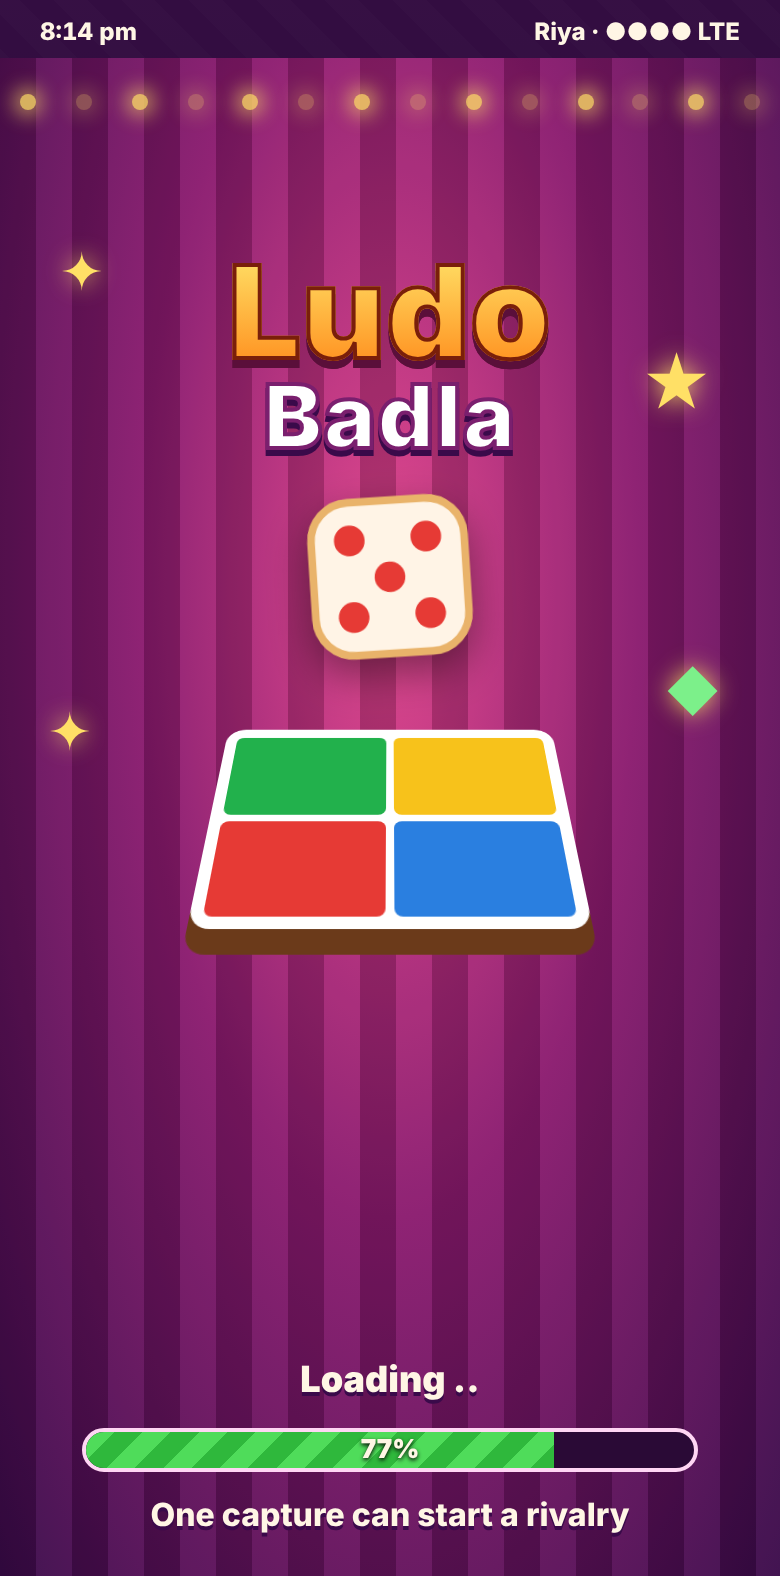
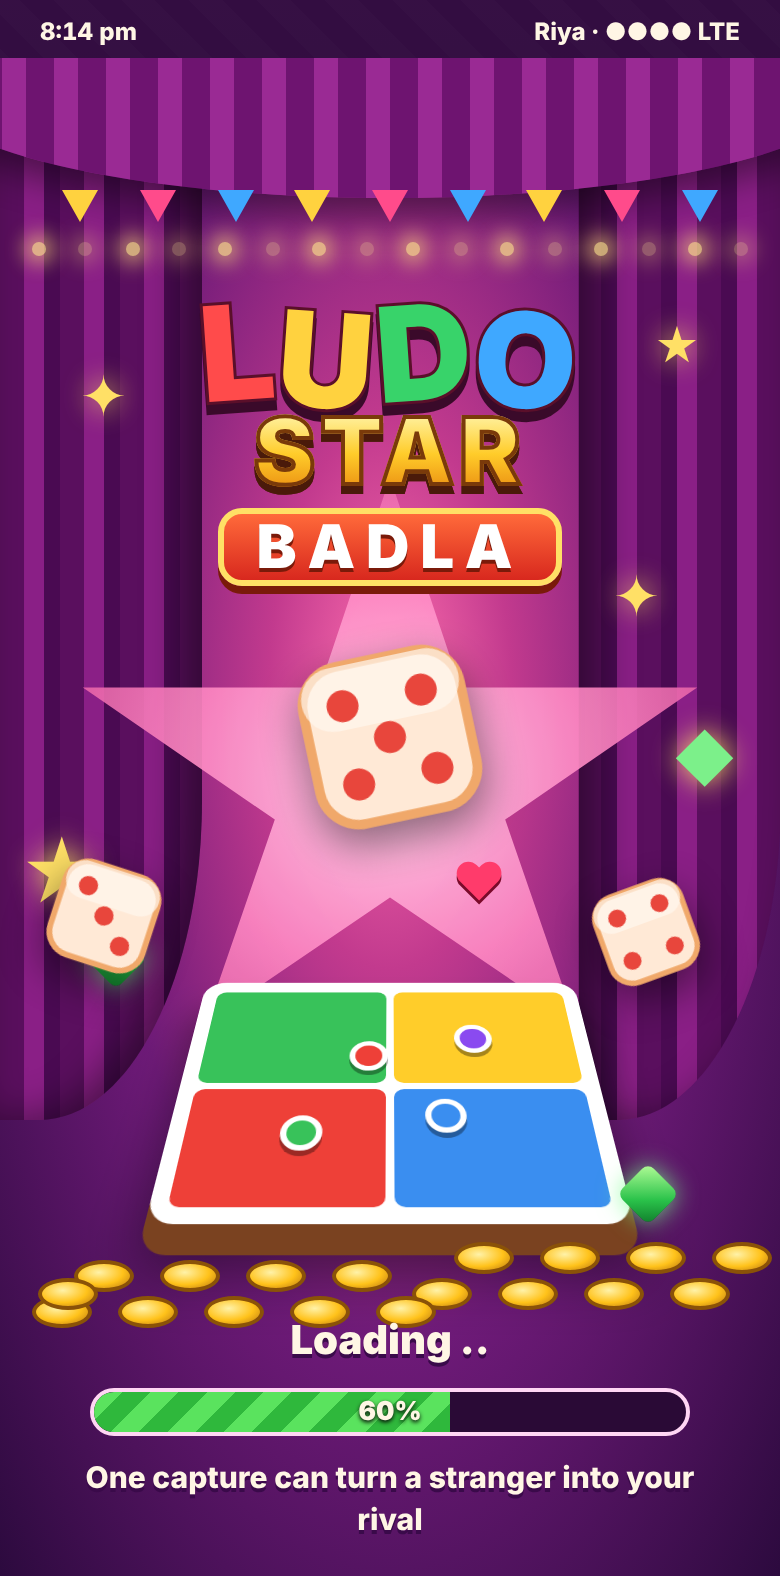
Loading screen modelled on the game's own, titled Ludo Star · Badla
Stage curtain with drapes and bunting, lights, a glowing star, floating
dice, a board with tokens, gold coins and gems, and the green loading bar.
Artwork is redrawn from scratch; no logo or mascot assets are used.

Claude-Session: https://claude.ai/code/session_01TFLZc5oSprUor55U9u9e7r

diff --git a/src/styles.css b/src/styles.css
@@ -593,32 +593,57 @@ body {
 .b-safe, .b-star { fill: #8a8a8a; }
 .board { filter: drop-shadow(0 6px 0 #3d1e0a); }
 
-/* Original loading screen */
-.splash { position: relative; min-height: 100%; height: 100%; overflow: hidden; display: flex; flex-direction: column; align-items: center; padding: 28px 16px 20px; gap: 10px;
-  background:
-    repeating-linear-gradient(90deg, rgba(0, 0, 0, 0.18) 0 18px, rgba(255, 255, 255, 0.04) 18px 36px),
-    radial-gradient(ellipse at 50% 35%, #e0418a 0%, #8a1a6e 45%, #3a0a4a 100%); }
-.splash-lights { position: absolute; top: 18px; left: 0; right: 0; display: flex; justify-content: space-around; }
-.splash-lights span { width: 8px; height: 8px; border-radius: 50%; background: #ffe066; box-shadow: 0 0 10px 3px rgba(255, 224, 102, 0.8); animation: twinkle 1.2s ease-in-out infinite alternate; }
-.splash-lights span:nth-child(odd) { animation-delay: 0.6s; }
-@keyframes twinkle { to { opacity: 0.3; } }
-.splash-sparkles span { position: absolute; color: #ffe066; font-size: 26px; text-shadow: 0 0 12px rgba(255, 224, 102, 0.9); }
-.splash-sparkles span:nth-child(1) { top: 90px; left: 30px; }
-.splash-sparkles span:nth-child(2) { top: 140px; right: 34px; font-size: 34px; }
-.splash-sparkles span:nth-child(3) { top: 320px; left: 24px; }
-.splash-sparkles span:nth-child(4) { top: 300px; right: 30px; color: #7cf08a; }
-.splash-title { margin-top: 60px; display: flex; flex-direction: column; align-items: center; line-height: 0.95; font-weight: 900; letter-spacing: 0.02em; }
-.st-ludo { font-size: 64px; background: linear-gradient(180deg, #ffe066, #ff8a1a); -webkit-background-clip: text; background-clip: text; color: transparent; -webkit-text-stroke: 2px #7a1f0a; filter: drop-shadow(0 4px 0 #5a0f3a); }
-.st-badla { font-size: 44px; color: #fff; -webkit-text-stroke: 2px #7a1f6e; filter: drop-shadow(0 3px 0 #3a0a4a); }
-.splash-die { width: 92px; height: 92px; margin-top: 8px; animation: bob 1.4s ease-in-out infinite; filter: drop-shadow(0 8px 10px rgba(0, 0, 0, 0.4)); }
-@keyframes bob { 50% { transform: translateY(-10px) rotate(-8deg); } }
-.splash-board { width: 180px; height: 120px; display: grid; grid-template-columns: 1fr 1fr; grid-template-rows: 1fr 1fr; gap: 4px; padding: 6px; background: #fff; border-radius: 10px; transform: perspective(300px) rotateX(35deg); box-shadow: 0 12px 0 #6b3a1a; }
-.splash-board .q { border-radius: 4px; }
-.q.g { background: var(--seat-teal); } .q.y { background: var(--seat-amber); } .q.r { background: var(--seat-red); } .q.b { background: var(--seat-blue); }
-.splash-bottom { margin-top: auto; width: 100%; display: flex; flex-direction: column; align-items: center; gap: 10px; }
-.splash-loading { font-weight: 900; font-size: 18px; text-shadow: 0 2px 0 #3a0a4a; }
-.splash-bar { position: relative; width: 86%; height: 22px; border-radius: 12px; background: #2a0a36; border: 2px solid #ffd6f4; overflow: hidden; }
-.splash-bar span { display: block; height: 100%; background: repeating-linear-gradient(135deg, #4fdc5a 0 10px, #2fb83c 10px 20px); }
+/* Loading screen */
+.splash { position: relative; min-height: 100%; height: 100%; overflow: hidden; display: flex; flex-direction: column; align-items: center; padding: 0 16px 18px;
+  background: radial-gradient(ellipse at 50% 42%, #ff6fae 0%, #c23a8e 22%, #6e1a78 52%, #2c0a3e 100%); }
+.sp-drape { position: absolute; top: 0; bottom: 30%; width: 26%; z-index: 1;
+  background: repeating-linear-gradient(90deg, #5a0f5e 0 12px, #8a1f86 12px 22px, #4a0a52 22px 30px); box-shadow: inset -10px 0 20px rgba(0, 0, 0, 0.45); }
+.sp-drape-l { left: 0; border-bottom-right-radius: 80% 30%; }
+.sp-drape-r { right: 0; border-bottom-left-radius: 80% 30%; transform: scaleX(-1); }
+.sp-swag { position: absolute; top: -40px; left: -10%; right: -10%; height: 110px; z-index: 2; border-radius: 0 0 50% 50%;
+  background: repeating-linear-gradient(90deg, #6e1470 0 14px, #9a2a94 14px 26px); box-shadow: 0 8px 18px rgba(0, 0, 0, 0.45); }
+.sp-bunting { position: absolute; top: 66px; left: 8%; right: 8%; z-index: 3; display: flex; justify-content: space-between; }
+.sp-bunting span { width: 0; height: 0; border-left: 9px solid transparent; border-right: 9px solid transparent; border-top: 16px solid #ffd23f; }
+.sp-bunting span:nth-child(3n+2) { border-top-color: #ff4b8b; }
+.sp-bunting span:nth-child(3n) { border-top-color: #3fa8ff; }
+.splash-lights { position: absolute; top: 92px; left: 4%; right: 4%; z-index: 3; display: flex; justify-content: space-between; }
+.splash-lights span { width: 7px; height: 7px; border-radius: 50%; background: #ffe58a; box-shadow: 0 0 10px 4px rgba(255, 220, 120, 0.85); animation: twinkle 1.1s ease-in-out infinite alternate; }
+.splash-lights span:nth-child(odd) { animation-delay: 0.55s; }
+@keyframes twinkle { to { opacity: 0.35; } }
+.sp-starpanel { position: absolute; top: 210px; left: 50%; width: 320px; height: 300px; transform: translateX(-50%); z-index: 1;
+  clip-path: polygon(50% 0%, 61% 35%, 98% 35%, 68% 57%, 79% 91%, 50% 70%, 21% 91%, 32% 57%, 2% 35%, 39% 35%);
+  background: radial-gradient(circle, #ffd6ec 0%, #ff8ac4 45%, #d0408e 100%); filter: drop-shadow(0 0 18px rgba(255, 200, 120, 0.8)); opacity: 0.9; }
+.splash-sparkles span { position: absolute; z-index: 4; color: #ffe066; font-size: 28px; text-shadow: 0 0 14px rgba(255, 224, 102, 0.95); }
+.splash-sparkles span:nth-child(1) { top: 380px; left: 10px; font-size: 40px; }
+.splash-sparkles span:nth-child(2) { top: 150px; left: 40px; }
+.splash-sparkles span:nth-child(3) { top: 130px; right: 40px; font-size: 22px; }
+.splash-sparkles span:nth-child(4) { top: 330px; right: 22px; color: #7cf08a; font-size: 30px; }
+.splash-sparkles span:nth-child(5) { top: 250px; right: 60px; }
+.splash-title { position: relative; z-index: 5; margin-top: 118px; display: flex; flex-direction: column; align-items: center; line-height: 0.9; font-weight: 900; }
+.sp-ludo { font-size: 66px; letter-spacing: 0.02em; display: flex; -webkit-text-stroke: 3px #5a0f2a; paint-order: stroke fill; filter: drop-shadow(0 5px 0 #3a0a2a); }
+.sp-ludo span { display: inline-block; }
+.sp-ludo span:nth-child(odd) { transform: rotate(-4deg); }
+.sp-ludo span:nth-child(even) { transform: translateY(4px) rotate(4deg); }
+.sp-star { font-size: 46px; letter-spacing: 0.06em; background: linear-gradient(180deg, #fff4a8, #ffcc2a 50%, #e8860e); -webkit-background-clip: text; background-clip: text; color: transparent; -webkit-text-stroke: 2px #7a3a0a; filter: drop-shadow(0 4px 0 #4a1a0a); }
+.sp-badla { margin-top: 6px; font-size: 30px; letter-spacing: 0.18em; color: #fff; padding: 4px 16px 2px; border-radius: 12px; background: linear-gradient(180deg, #ff6a3a, #d8281e); border: 3px solid #ffe066; box-shadow: 0 4px 0 #7a1a0a; text-shadow: 0 2px 0 #7a1a0a; }
+.sp-die { position: absolute; z-index: 5; filter: drop-shadow(0 8px 10px rgba(0, 0, 0, 0.45)); }
+.sp-die:first-of-type { margin-left: -48px; animation: bob 1.6s ease-in-out infinite; }
+@keyframes bob { 50% { translate: 0 -10px; } }
+.sp-heart { position: absolute; z-index: 5; top: 395px; left: 58%; color: #ff3b6b; font-size: 26px; filter: drop-shadow(0 2px 0 #7a0a2a); }
+.sp-table { position: absolute; z-index: 4; left: 0; right: 0; bottom: 160px; height: 170px; display: grid; place-items: center; }
+.splash-board { position: relative; width: 210px; height: 150px; display: grid; grid-template-columns: 1fr 1fr; grid-template-rows: 1fr 1fr; gap: 4px; padding: 8px; background: #fff; border-radius: 12px; transform: perspective(320px) rotateX(38deg); box-shadow: 0 14px 0 #7a4220, 0 22px 24px rgba(0, 0, 0, 0.45); }
+.splash-board .q { border-radius: 5px; }
+.q.g { background: #38c25a; } .q.y { background: #ffcd2a; } .q.r { background: #ee4038; } .q.b { background: #3a8ef0; }
+.splash-board .tok { position: absolute; width: 20px; height: 20px; border-radius: 50%; border: 3px solid #fff; box-shadow: 0 3px 0 rgba(0, 0, 0, 0.35); }
+.tok.t1 { background: #ee4038; left: 40%; top: 30%; } .tok.t2 { background: #3a8ef0; left: 58%; top: 55%; } .tok.t3 { background: #38c25a; left: 25%; top: 62%; } .tok.t4 { background: #8a4af0; left: 66%; top: 22%; }
+.sp-coins { position: absolute; left: 4%; right: 4%; bottom: -36px; height: 60px; }
+.sp-coins span { position: absolute; width: 30px; height: 16px; border-radius: 50%; background: radial-gradient(ellipse at 40% 35%, #fff2a8, #ffc21a 55%, #b87410); border: 2px solid #8a5208; }
+.sp-gem { position: absolute; width: 22px; height: 22px; background: linear-gradient(135deg, #b8ff9a, #2ac24a 60%, #0f7a2a); transform: rotate(45deg); border-radius: 4px; box-shadow: 0 0 12px rgba(120, 255, 140, 0.8); }
+.sp-gem.g1 { left: 12%; top: 10px; } .sp-gem.g2 { right: 14%; bottom: 20px; }
+.splash-bottom { position: relative; z-index: 6; margin-top: auto; width: 100%; display: flex; flex-direction: column; align-items: center; gap: 10px; }
+.splash-loading { font-weight: 900; font-size: 20px; text-shadow: 0 2px 0 #3a0a4a; }
+.splash-bar { position: relative; width: 84%; height: 24px; border-radius: 12px; background: #2a0a36; border: 2px solid #ffd6f4; overflow: hidden; }
+.splash-bar span { display: block; height: 100%; background: repeating-linear-gradient(135deg, #5ae35e 0 10px, #2fb83c 10px 20px); }
 .splash-bar em { position: absolute; inset: 0; display: grid; place-items: center; font-style: normal; font-weight: 900; font-size: 13px; text-shadow: 0 1px 2px #000; }
-.splash-tag { font-weight: 800; text-align: center; text-shadow: 0 2px 0 #3a0a4a; }
-@media (prefers-reduced-motion: reduce) { .splash-die, .splash-lights span { animation: none; } }
+.splash-tag { font-weight: 800; font-size: 15px; text-align: center; text-shadow: 0 2px 0 #3a0a4a; padding: 0 12px; }
+@media (prefers-reduced-motion: reduce) { .sp-die, .splash-lights span { animation: none; } }

diff --git a/src/linear/LinearApp.tsx b/src/linear/LinearApp.tsx
@@ -295,25 +295,57 @@ function Screen({ step, s, clock, onCta }: { step: Step; s: State; clock: number
   }
 }
 
-/** Original loading screen: curtain, lights, a bouncing die and a progress bar. */
+const LETTER_COLORS = ['#ff4b4b', '#ffd23f', '#38d36a', '#3fa8ff'];
+
+function Die({ x, y, size, rot, pips }: { x: string; y: string; size: number; rot: number; pips: number[][] }) {
+  return (
+    <svg className="sp-die" style={{ left: x, top: y, width: size, height: size, transform: `rotate(${rot}deg)` }} viewBox="-12 -12 24 24" aria-hidden="true">
+      <rect x="-10" y="-10" width="20" height="20" rx="5" fill="#ffe9d6" stroke="#f0a86a" strokeWidth="1.2" />
+      <rect x="-10" y="-10" width="20" height="8" rx="4" fill="#fff6ee" opacity="0.7" />
+      {pips.map(([px, py]) => <circle key={`${px}${py}`} cx={px} cy={py} r="2" fill="#e8463c" />)}
+    </svg>
+  );
+}
+
+/** Loading screen in the spirit of the game's own: stage, lights, dice, board, coins. Artwork is original. */
 function Splash({ onDone, label }: { onDone: () => void; label: string }) {
   const [pct, setPct] = useState(0);
   const ref = useRef<HTMLButtonElement>(null);
   useEffect(() => {
     if (pct >= 100) { ref.current?.focus({ preventScroll: true }); return; }
-    const t = setTimeout(() => setPct((p) => Math.min(100, p + 7)), 90);
+    const t = setTimeout(() => setPct((p) => Math.min(100, p + 6)), 90);
     return () => clearTimeout(t);
   }, [pct]);
   return (
     <div className="splash">
-      <div className="splash-lights" aria-hidden="true">{Array.from({ length: 14 }, (_, k) => <span key={k} />)}</div>
-      <div className="splash-sparkles" aria-hidden="true"><span>✦</span><span>★</span><span>✦</span><span>◆</span></div>
-      <h1 className="splash-title"><span className="st-ludo">Ludo</span><span className="st-badla">Badla</span></h1>
-      <svg className="splash-die" viewBox="-12 -12 24 24" aria-hidden="true">
-        <rect x="-10" y="-10" width="20" height="20" rx="5" fill="#fff4e6" stroke="#e9b36a" strokeWidth="1" />
-        {[[-5, -5], [5, -5], [0, 0], [-5, 5], [5, 5]].map(([x, y]) => <circle key={`${x}${y}`} cx={x} cy={y} r="2" fill="#e63a35" />)}
-      </svg>
-      <div className="splash-board" aria-hidden="true"><span className="q g" /><span className="q y" /><span className="q r" /><span className="q b" /></div>
+      <div className="sp-drape sp-drape-l" aria-hidden="true" />
+      <div className="sp-drape sp-drape-r" aria-hidden="true" />
+      <div className="sp-swag" aria-hidden="true" />
+      <div className="sp-bunting" aria-hidden="true">{Array.from({ length: 9 }, (_, k) => <span key={k} />)}</div>
+      <div className="splash-lights" aria-hidden="true">{Array.from({ length: 16 }, (_, k) => <span key={k} />)}</div>
+      <div className="sp-starpanel" aria-hidden="true" />
+      <div className="splash-sparkles" aria-hidden="true"><span>★</span><span>✦</span><span>★</span><span>◆</span><span>✦</span></div>
+
+      <h1 className="splash-title">
+        <span className="sp-ludo">{'LUDO'.split('').map((ch, k) => <span key={k} style={{ color: LETTER_COLORS[k] }}>{ch}</span>)}</span>
+        <span className="sp-star">STAR</span>
+        <span className="sp-badla">BADLA</span>
+      </h1>
+
+      <Die x="50%" y="300px" size={96} rot={-12} pips={[[-5, -5], [5, -5], [0, 0], [-5, 5], [5, 5]]} />
+      <Die x="6%" y="400px" size={58} rot={18} pips={[[-5, -5], [5, 5], [0, 0]]} />
+      <Die x="76%" y="410px" size={54} rot={-20} pips={[[-5, -5], [5, -5], [-5, 5], [5, 5]]} />
+      <span className="sp-heart" aria-hidden="true">❤</span>
+
+      <div className="sp-table" aria-hidden="true">
+        <div className="splash-board">
+          <span className="q g" /><span className="q y" /><span className="q r" /><span className="q b" />
+          <i className="tok t1" /><i className="tok t2" /><i className="tok t3" /><i className="tok t4" />
+        </div>
+        <div className="sp-coins">{Array.from({ length: 18 }, (_, k) => <span key={k} style={{ left: `${(k * 53) % 100}%`, bottom: `${(k % 4) * 9}px` }} />)}</div>
+        <span className="sp-gem g1" /><span className="sp-gem g2" />
+      </div>
+
       <div className="splash-bottom">
         {pct < 100 ? (
           <>
@@ -323,7 +355,7 @@ function Splash({ onDone, label }: { onDone: () => void; label: string }) {
         ) : (
           <button ref={ref} type="button" className="btn btn-ember btn-big lin-cta" onClick={onDone}>{label}</button>
         )}
-        <p className="splash-tag">One capture can start a rivalry</p>
+        <p className="splash-tag">One capture can turn a stranger into your rival</p>
       </div>
     </div>
   );

diff --git a/README.md b/README.md
@@ -13,7 +13,7 @@ The page shows **one phone** and a short explanation beside it. Every phone scre
 
 ## The story (19 steps, about 3 minutes)
 
-The demo opens on an original loading screen (stage curtain, lights, a bouncing die). The look borrows the game's general palette: purple patterned backdrop, magenta panels with gold borders, gold buttons and a bright four-colour board on a wooden frame. All artwork is original: no Ludo STAR logo, mascots or crown art.
+The demo opens on a "Ludo Star · Badla" loading screen modelled on the game's own (stage curtain, bunting, lights, star, dice, board, coins, green loading bar), redrawn in original artwork. The look borrows the game's general palette: purple patterned backdrop, magenta panels with gold borders, gold buttons and a bright four-colour board on a wooden frame. All artwork is original: no Ludo STAR logo, mascots or crown art.
 
 | # | Phone | What happens |
 |---|---|---|
